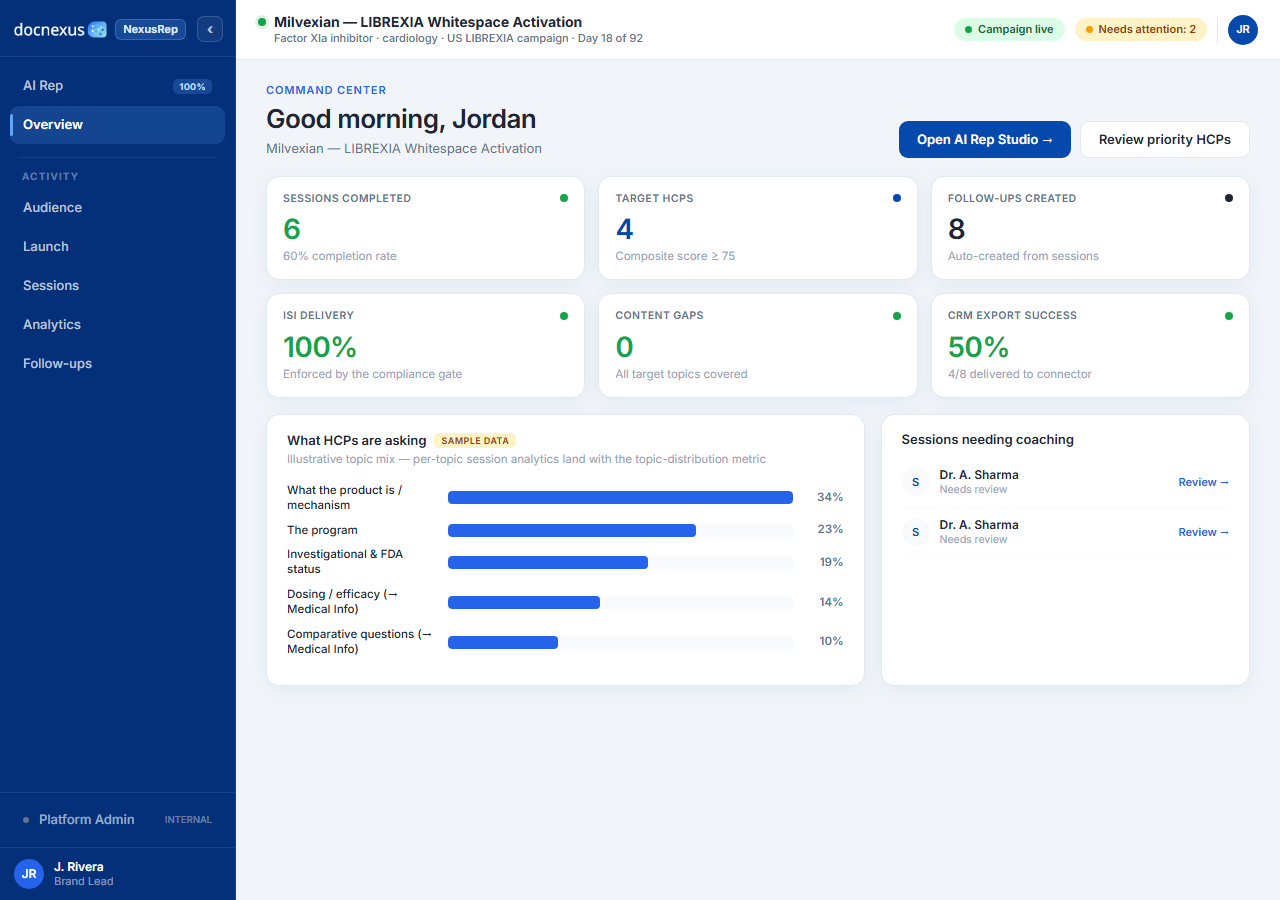
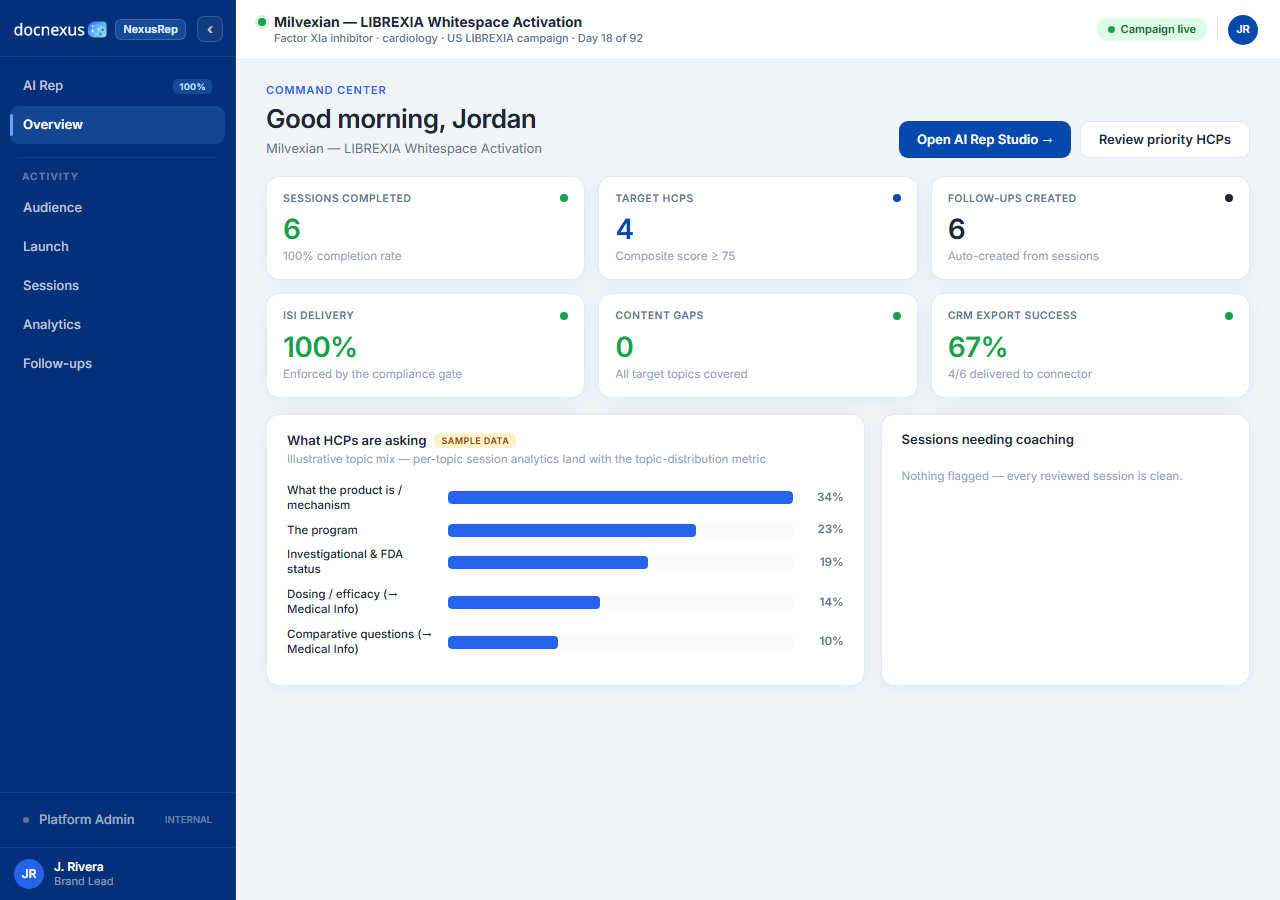
Doctor view: spoken answers are opt-in; one mute control, not two
- The browser voice starts MUTED — answers don't read aloud until the doctor
  turns the Sound button on (it was speaking every answer by default).
- The video pane's own mute button is gone: agent audio has ONE control — the
  header Sound button (which proxies to the stage during video). The pane keeps
  the my-microphone toggle and End video.

Live-verified: fresh session shows "Sound off", nothing speaks unprompted.
248 unit tests, 28 e2e green; hcp baseline refreshed.

diff --git a/src/app/_components/VideoAgentStage.tsx b/src/app/_components/VideoAgentStage.tsx
@@ -303,11 +303,11 @@ export const VideoAgentStage = forwardRef<VideoAgentStageHandle, { onClose: () =
       )}
       {!bare && (
         <div style={{ position: "absolute", top: 8, right: 8, display: "flex", gap: 6 }}>
+          {/* Agent-audio mute lives on the HCP header Sound button (via setMuted on the
+              handle) — a second toggle on the pane was duplicated state. The pane keeps
+              only the my-microphone toggle. */}
           {stage === "live" && (
-            <>
-              <button onClick={() => { const next = !micOn; setMicOn(next); transportRef.current?.setMicEnabled(next); }} aria-label={micOn ? "Mute my microphone" : "Unmute my microphone"} title={micOn ? "Mute my microphone" : "Unmute my microphone"} style={{ background: micOn ? "rgba(255,255,255,.15)" : "rgba(220,38,38,.75)", color: "#fff", border: "1px solid rgba(255,255,255,.3)", borderRadius: 8, padding: "5px 10px", fontSize: 12, cursor: "pointer" }}>{micOn ? "🎙" : "🎙✕"}</button>
-              <button onClick={() => applyMuted(!muted)} aria-label={muted ? "Unmute the agent" : "Mute the agent"} title={muted ? "Unmute the agent" : "Mute the agent"} style={{ background: "rgba(255,255,255,.15)", color: "#fff", border: "1px solid rgba(255,255,255,.3)", borderRadius: 8, padding: "5px 10px", fontSize: 12, cursor: "pointer" }}>{muted ? "🔇" : "🔊"}</button>
-            </>
+            <button onClick={() => { const next = !micOn; setMicOn(next); transportRef.current?.setMicEnabled(next); }} aria-label={micOn ? "Mute my microphone" : "Unmute my microphone"} title={micOn ? "Mute my microphone" : "Unmute my microphone"} style={{ background: micOn ? "rgba(255,255,255,.15)" : "rgba(220,38,38,.75)", color: "#fff", border: "1px solid rgba(255,255,255,.3)", borderRadius: 8, padding: "5px 10px", fontSize: 12, cursor: "pointer" }}>{micOn ? "🎙" : "🎙✕"}</button>
           )}
           <button onClick={onClose} style={{ background: "rgba(255,255,255,.15)", color: "#fff", border: "1px solid rgba(255,255,255,.3)", borderRadius: 8, padding: "5px 10px", fontSize: 12, cursor: "pointer" }}>End video</button>
         </div>

diff --git a/src/app/_app/HcpExperience.tsx b/src/app/_app/HcpExperience.tsx
@@ -31,7 +31,8 @@ export function HcpExperience({ app }: { app?: AppState }) {
   const [notice, setNotice] = useState("");
   const [speaking, setSpeaking] = useState(false);
   const [threeD, setThreeD] = useState(false);
-  const [voiceOn, setVoiceOn] = useState(true);
+  // Spoken answers are OPT-IN: the browser voice starts muted (the Sound button turns it on).
+  const [voiceOn, setVoiceOn] = useState(false);
   // Video-call audio state mirrored from the stage (the header button proxies to it —
   // controls must not disappear when the mode changes).
   const [videoMuted, setVideoMuted] = useState(false);